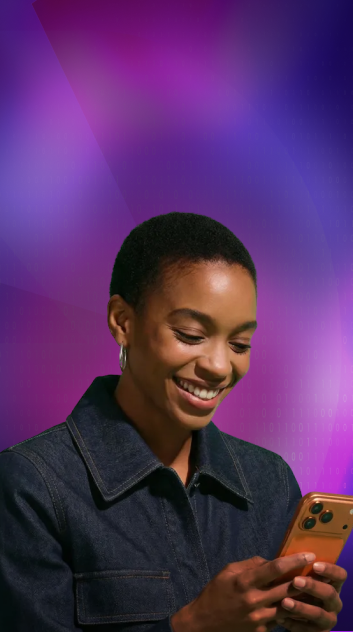
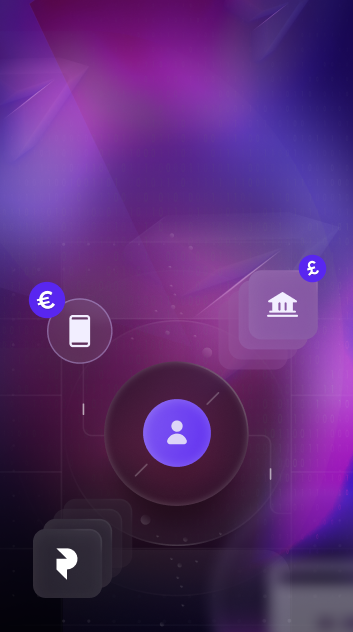
non-instapay-img-updated

diff --git a/src/Components/PaymentsNewer/Common/SendActionCard.jsx b/src/Components/PaymentsNewer/Common/SendActionCard.jsx
@@ -11,8 +11,8 @@ const SendActionCard = ({
   showDesc,
   active,
   sendPaymentType,
-  right = "-20%",
   shrinkWidth,
+  imageStyle = { right: "-20%" },
 }) => {
   const [winWidth, setWinWidth] = useState(window.innerWidth);
 
@@ -54,7 +54,7 @@ const SendActionCard = ({
         setter(setterValue);
       }}
     >
-      <img src={bg} alt={title} className={styles.bg} style={{ right: right }} />
+      <img src={bg} alt={title} className={styles.bg} style={imageStyle} />
       <div
         className={styles.item_dets}
         style={

diff --git a/src/Components/PaymentsNewer/NonInstapay/index.jsx b/src/Components/PaymentsNewer/NonInstapay/index.jsx
@@ -864,6 +864,9 @@ const NonInstapayPayment = ({ sendPaymentType, setSendPaymentType, setStep }) =>
             active={sendPaymentType === "non-instapay"}
             sendPaymentType={sendPaymentType}
             shrinkWidth={data.step === 4 && data.payment_type?.value === "wallet"}
+            imageStyle={{
+              objectPosition: sendPaymentType === "non-instapay" ? "-32px 100%" : "0 100%",
+            }}
           />
           {sendPaymentType === "non-instapay" &&
             (data?.transaction_details ? (

diff --git a/src/Components/PaymentsNewer/CryptoFiat.jsx b/src/Components/PaymentsNewer/CryptoFiat.jsx
@@ -120,7 +120,7 @@ const CryptoFiat = () => {
             showDesc={true}
             active={true}
             sendPaymentType={true}
-            right="-2%"
+            imageStyle={{ right: "-2%" }}
           />
           <Card style={{ width: "100%", marginBottom: 0, paddingBottom: "1rem" }}>
             <CardBody
